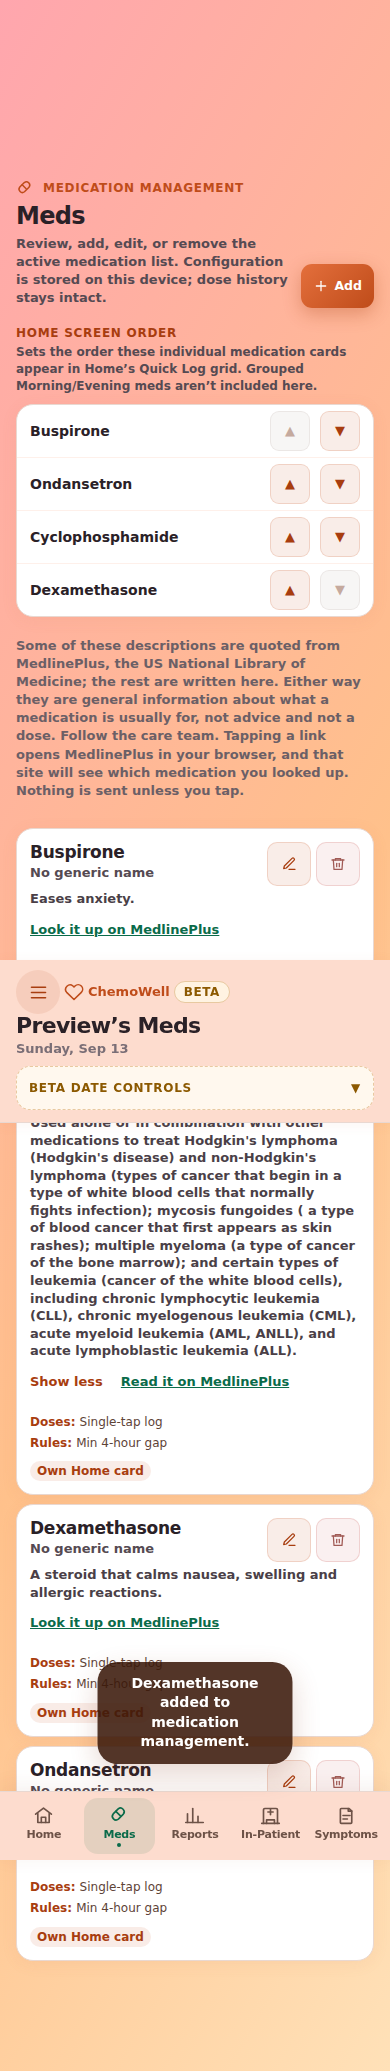
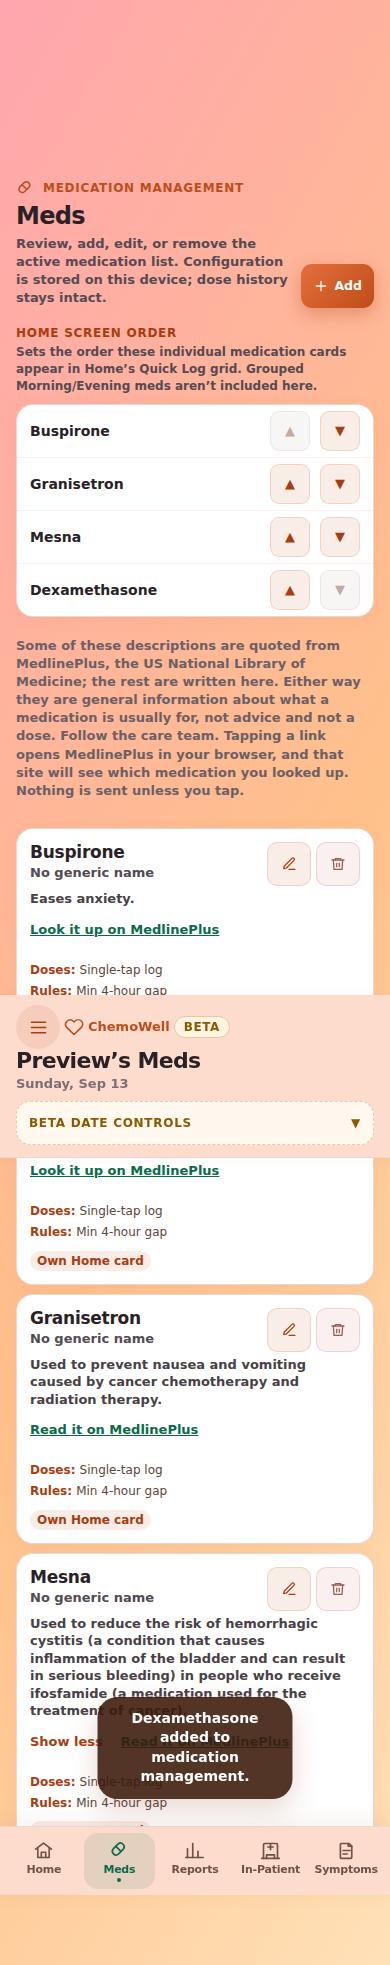
the screenshot fixture's drug is now correctly refused
Cyclophosphamide's MedlinePlus sentence names Hodgkin's, myeloma and four
leukaemias, so the named-diagnosis guard refuses it and the app has no line
of its own -- the card shows nothing, and the suite said so rather than
passing over an empty screen. Mesna is the longest sentence that still ships
and exercises the expander the same way.

30 quoted, 11 of them actually showing: nausea, infection, constipation,
folate, mesna, leucovorin, scopolamine. The chemotherapy agents keep their
lookup link and assert nothing.

Claude-Session: https://claude.ai/code/session_01YLK2mDPJLJLCZfexLETuMn

diff --git a/index.html b/index.html
@@ -5611,7 +5611,6 @@ const MED_SOURCE_TABLE = {
   "diphenhydramine": { t: "Used to treat allergy and cold symptoms: sneezing; runny nose; red, itchy, watery eyes; itching of the nose or throat.", u: "https://www.medlineplus.gov/druginfo/meds/a682539.html" },
   "dronabinol": { t: "Used to treat nausea and vomiting caused by chemotherapy in people who have already taken other medications to treat this type of nausea and vomiting without good results.", u: "https://www.medlineplus.gov/druginfo/meds/a607054.html" },
   "famotidine": { t: "Used to treat ulcers (sores on the lining of the stomach or small intestine); gastroesophageal reflux disease (GERD, a condition in which backward flow of acid from the stomach causes heartburn and injury of the esophagus [tube that connects the mouth and stomach]); and conditions where the stomach produces too much acid, such as Zollinger-Ellison syndrome (tumors in the pancreas or small intestine that cause increased production of stomach acid).", u: "https://www.medlineplus.gov/druginfo/meds/a687011.html" },
-  "fluconazole": { t: "Used to treat fungal infections, including yeast infections of the vagina, mouth, throat, esophagus (tube leading from the mouth to the stomach), abdomen (area between the chest and waist), lungs, blood, and other organs.", u: "https://www.medlineplus.gov/druginfo/meds/a690002.html" },
   "folic acid": { t: "Used to treat or prevent folic acid deficiency.", u: "https://www.medlineplus.gov/druginfo/meds/a682591.html" },
   "granisetron": { t: "Used to prevent nausea and vomiting caused by cancer chemotherapy and radiation therapy.", u: "https://www.medlineplus.gov/druginfo/meds/a601211.html" },
   "hydrocodone": { t: "Used to relieve severe pain.", u: "https://www.medlineplus.gov/druginfo/meds/a614045.html" },

diff --git a/tools/last-run/report.md b/tools/last-run/report.md
@@ -1,6 +1,6 @@
 # Medication table build
 
-Pages in: **85** · kept: **31** · rejected: **54**
+Pages in: **85** · kept: **30** · rejected: **55**
 
 A rejected sentence is NOT trimmed to fit. The app keeps its own hand-written line for that drug.
 
@@ -26,6 +26,7 @@ A rejected sentence is NOT trimmed to fit. The app keeps its own hand-written li
 | epirubicin | a named diagnosis the patient may not have | Used in combination with other medications to treat breast cancer in patients who have had surgery to remove the tumor. |
 | etoposide | a named diagnosis the patient may not have | Used in combination with other medications to treat a certain type of lung cancer (small cell lung cancer; SCLC). |
 | filgrastim | a dosage form or route | Filgrastim injection products (Granix, Neupogen, Nivestym, Releuko, Zarxio) are used to decrease the chance of infection |
+| fluconazole | a stigmatised indication a reader would attach to the patient | Used to treat fungal infections, including yeast infections of the vagina, mouth, throat, esophagus (tube leading from t |
 | gabapentin | a dosage form or route | Gabapentin capsules, tablets, and oral solution are used along with other medications to help control certain types of s |
 | gemcitabine | a number, which could read as a dose | Used in combination with carboplatin to treat ovarian cancer (cancer that begins in the female reproductive organs where |
 | ifosfamide | a named diagnosis the patient may not have | Used to treat certain types of cancer of the testicles. |
